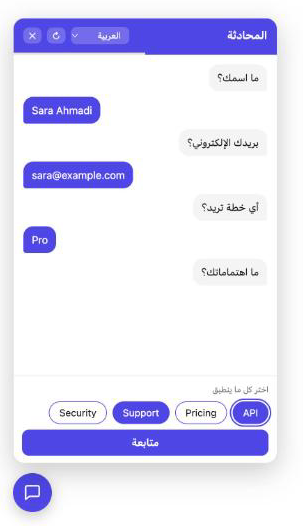
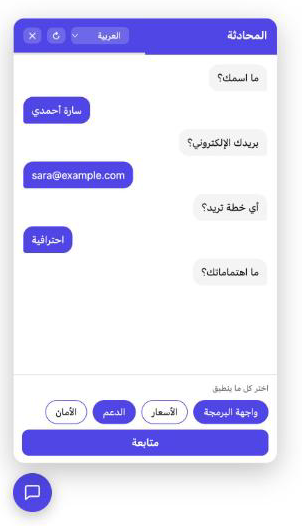
docs: fully localized English and Arabic README screenshots
The plain PHP example now translates plan and topic labels, so each
screenshot shows a conversation entirely in one language.

diff --git a/examples/plain-php/endpoint.php b/examples/plain-php/endpoint.php
@@ -18,16 +18,31 @@ use FaridM\AiChatStateMachine\Support\NativeSessionStore;
 $flows = (new FlowRegistry())->register('lead', static function (?string $locale): Flow {
     // The widget sends the visitor's chosen language, so the questions can follow it.
     $t = [
-        'fa' => ['name' => 'نام شما چیست؟', 'email' => 'ایمیل شما؟', 'plan' => 'کدام پلن را میخواهید؟', 'topics' => 'به چه چیزی علاقه دارید؟', 'phone' => 'شماره تلفن (اختیاری)', 'note' => 'توضیحات بیشتر (اختیاری)'],
-        'ar' => ['name' => 'ما اسمك؟', 'email' => 'بريدك الإلكتروني؟', 'plan' => 'أي خطة تريد؟', 'topics' => 'ما اهتماماتك؟', 'phone' => 'رقم الهاتف (اختياري)', 'note' => 'ملاحظات إضافية (اختياري)'],
-        'en' => ['name' => "What's your name?", 'email' => 'Your email?', 'plan' => 'Which plan are you interested in?', 'topics' => 'What are you interested in?', 'phone' => 'Phone number (optional)', 'note' => 'Anything else? (optional)'],
+        'fa' => [
+            'name' => 'نام شما چیست؟', 'email' => 'ایمیل شما؟', 'plan' => 'کدام پلن را میخواهید؟',
+            'topics' => 'به چه چیزی علاقه دارید؟', 'phone' => 'شماره تلفن (اختیاری)', 'note' => 'توضیحات بیشتر (اختیاری)',
+            'plans' => ['starter' => 'پایه', 'pro' => 'حرفهای', 'enterprise' => 'سازمانی'],
+            'interests' => ['API', 'قیمتها', 'پشتیبانی', 'امنیت'],
+        ],
+        'ar' => [
+            'name' => 'ما اسمك؟', 'email' => 'بريدك الإلكتروني؟', 'plan' => 'أي خطة تريد؟',
+            'topics' => 'ما اهتماماتك؟', 'phone' => 'رقم الهاتف (اختياري)', 'note' => 'ملاحظات إضافية (اختياري)',
+            'plans' => ['starter' => 'أساسية', 'pro' => 'احترافية', 'enterprise' => 'للشركات'],
+            'interests' => ['واجهة البرمجة', 'الأسعار', 'الدعم', 'الأمان'],
+        ],
+        'en' => [
+            'name' => "What's your name?", 'email' => 'Your email?', 'plan' => 'Which plan are you interested in?',
+            'topics' => 'What are you interested in?', 'phone' => 'Phone number (optional)', 'note' => 'Anything else? (optional)',
+            'plans' => ['starter' => 'Starter', 'pro' => 'Pro', 'enterprise' => 'Enterprise'],
+            'interests' => ['API', 'Pricing', 'Support', 'Security'],
+        ],
     ][in_array(substr((string) $locale, 0, 2), ['fa', 'ar'], true) ? substr((string) $locale, 0, 2) : 'en'];
 
     return Flow::make()
         ->add(Steps::text('name', $t['name']))
         ->add(Steps::email('email', $t['email']))
-        ->add(Steps::choice('plan', $t['plan'], ['starter' => 'Starter', 'pro' => 'Pro', 'enterprise' => 'Enterprise']))
-        ->add(Steps::multiChoice('topics', $t['topics'], ['API', 'Pricing', 'Support', 'Security']))
+        ->add(Steps::choice('plan', $t['plan'], $t['plans']))
+        ->add(Steps::multiChoice('topics', $t['topics'], $t['interests']))
         ->add(Steps::phone('phone', $t['phone'])->optional())
         ->add(Steps::text('note', $t['note'], ['multiline' => true])->optional())
         ->onComplete(static function (array $answers): void {

diff --git a/CHANGELOG.md b/CHANGELOG.md
@@ -3,6 +3,11 @@
 All notable changes to this project are documented here.
 The format follows [Keep a Changelog](https://keepachangelog.com/en/1.1.0/) and the project adheres to [Semantic Versioning](https://semver.org/).
 
+## [Unreleased]
+
+### Changed
+- Plain PHP example now localizes plan and topic labels (Persian, Arabic, English), so the README screenshots show fully English and fully Arabic conversations.
+
 ## [1.0.0] - 2026-11-10
 
 ### Added
